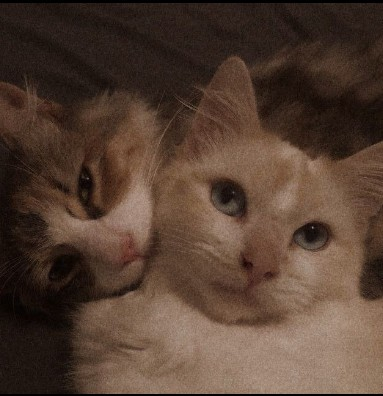
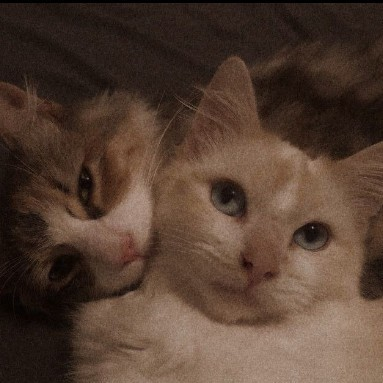
change img size

diff --git a/index.html b/index.html
@@ -8,6 +8,10 @@
              margin-right: auto;
              }
 
+         img {
+             width: 50%;
+             }
+
          .center {
               text-align: center;
              }
